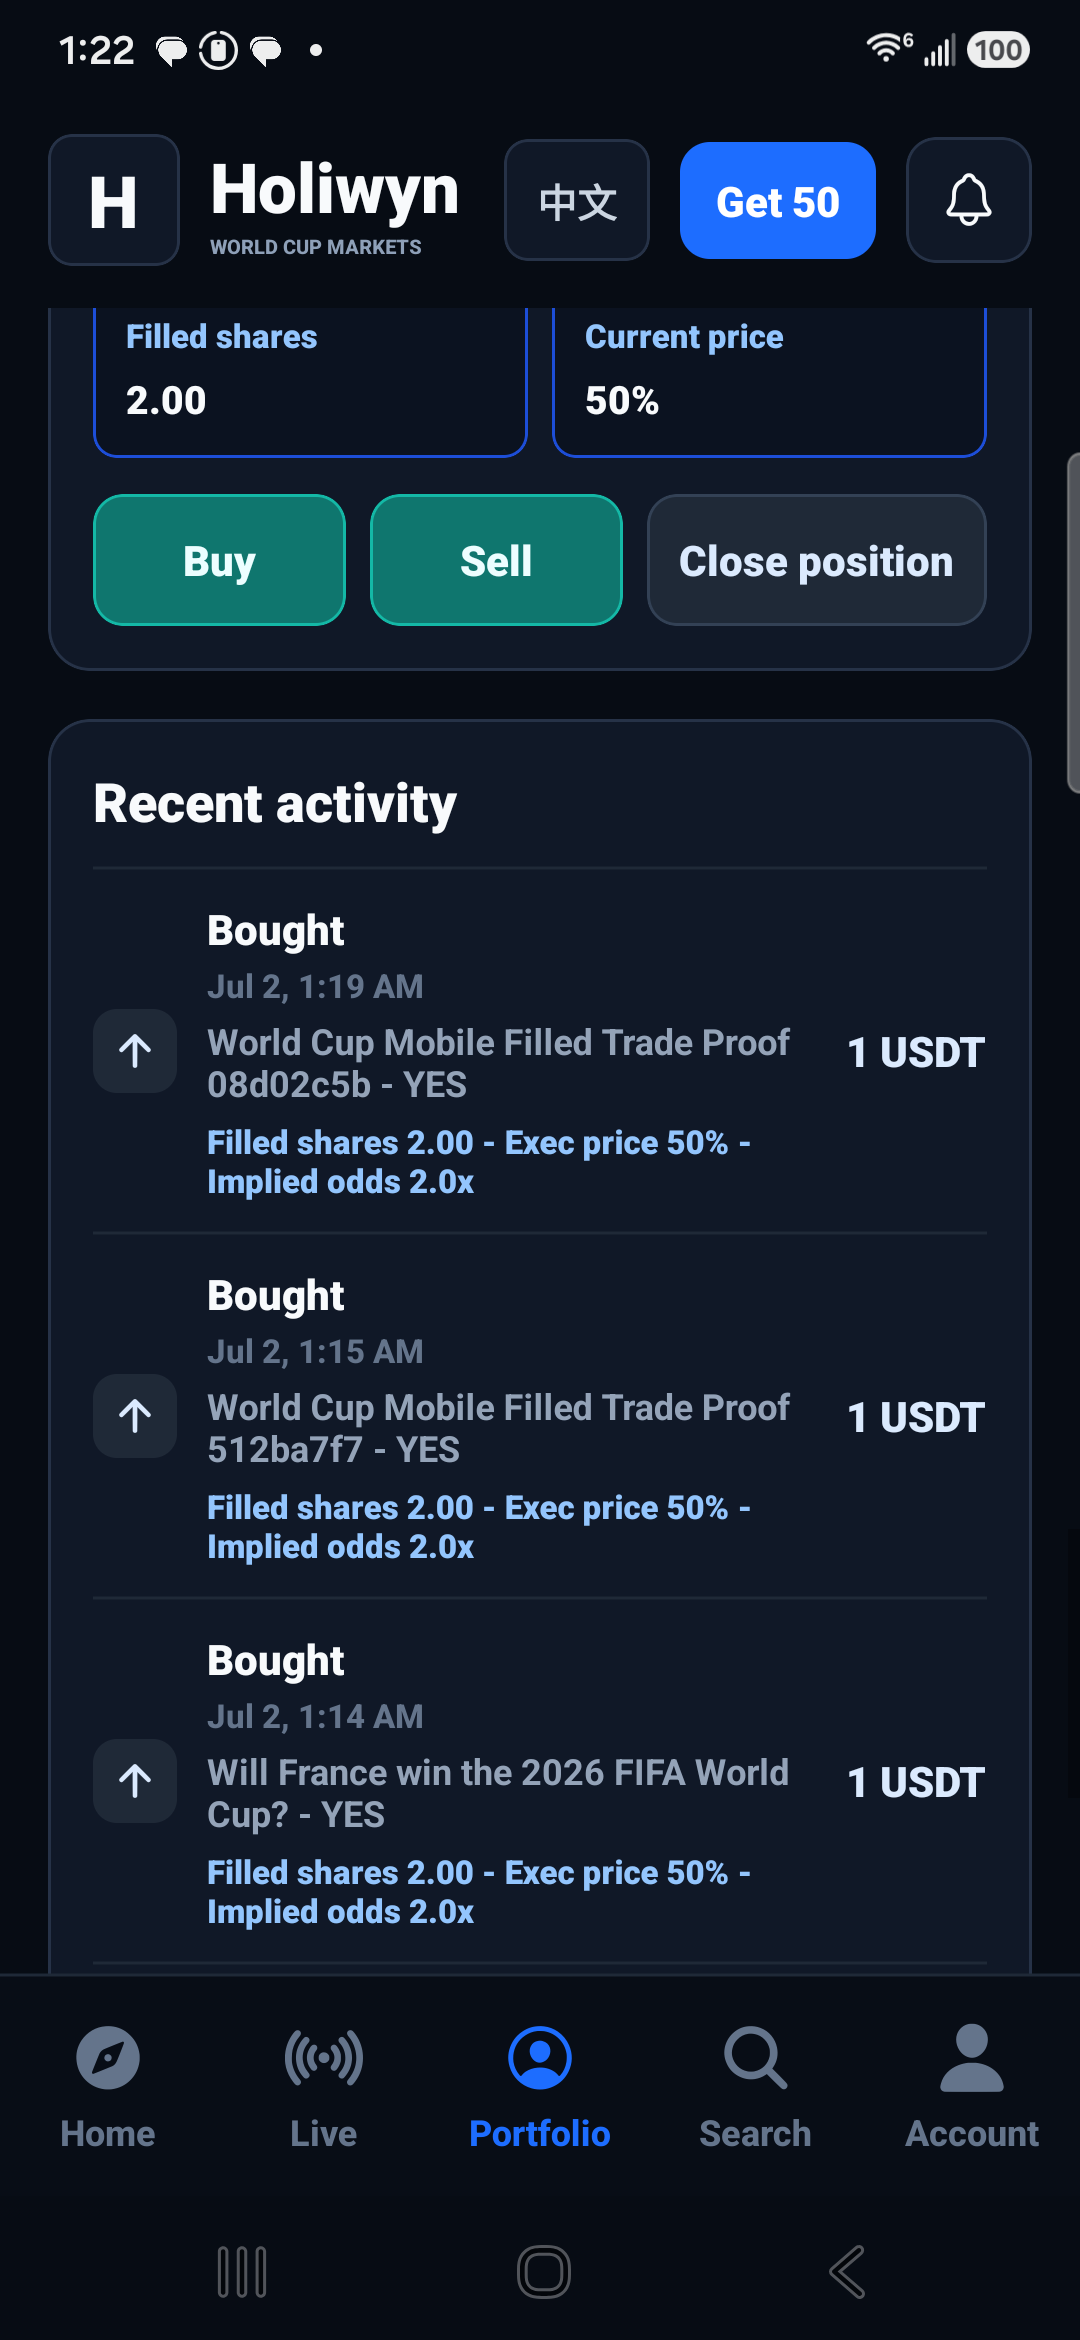
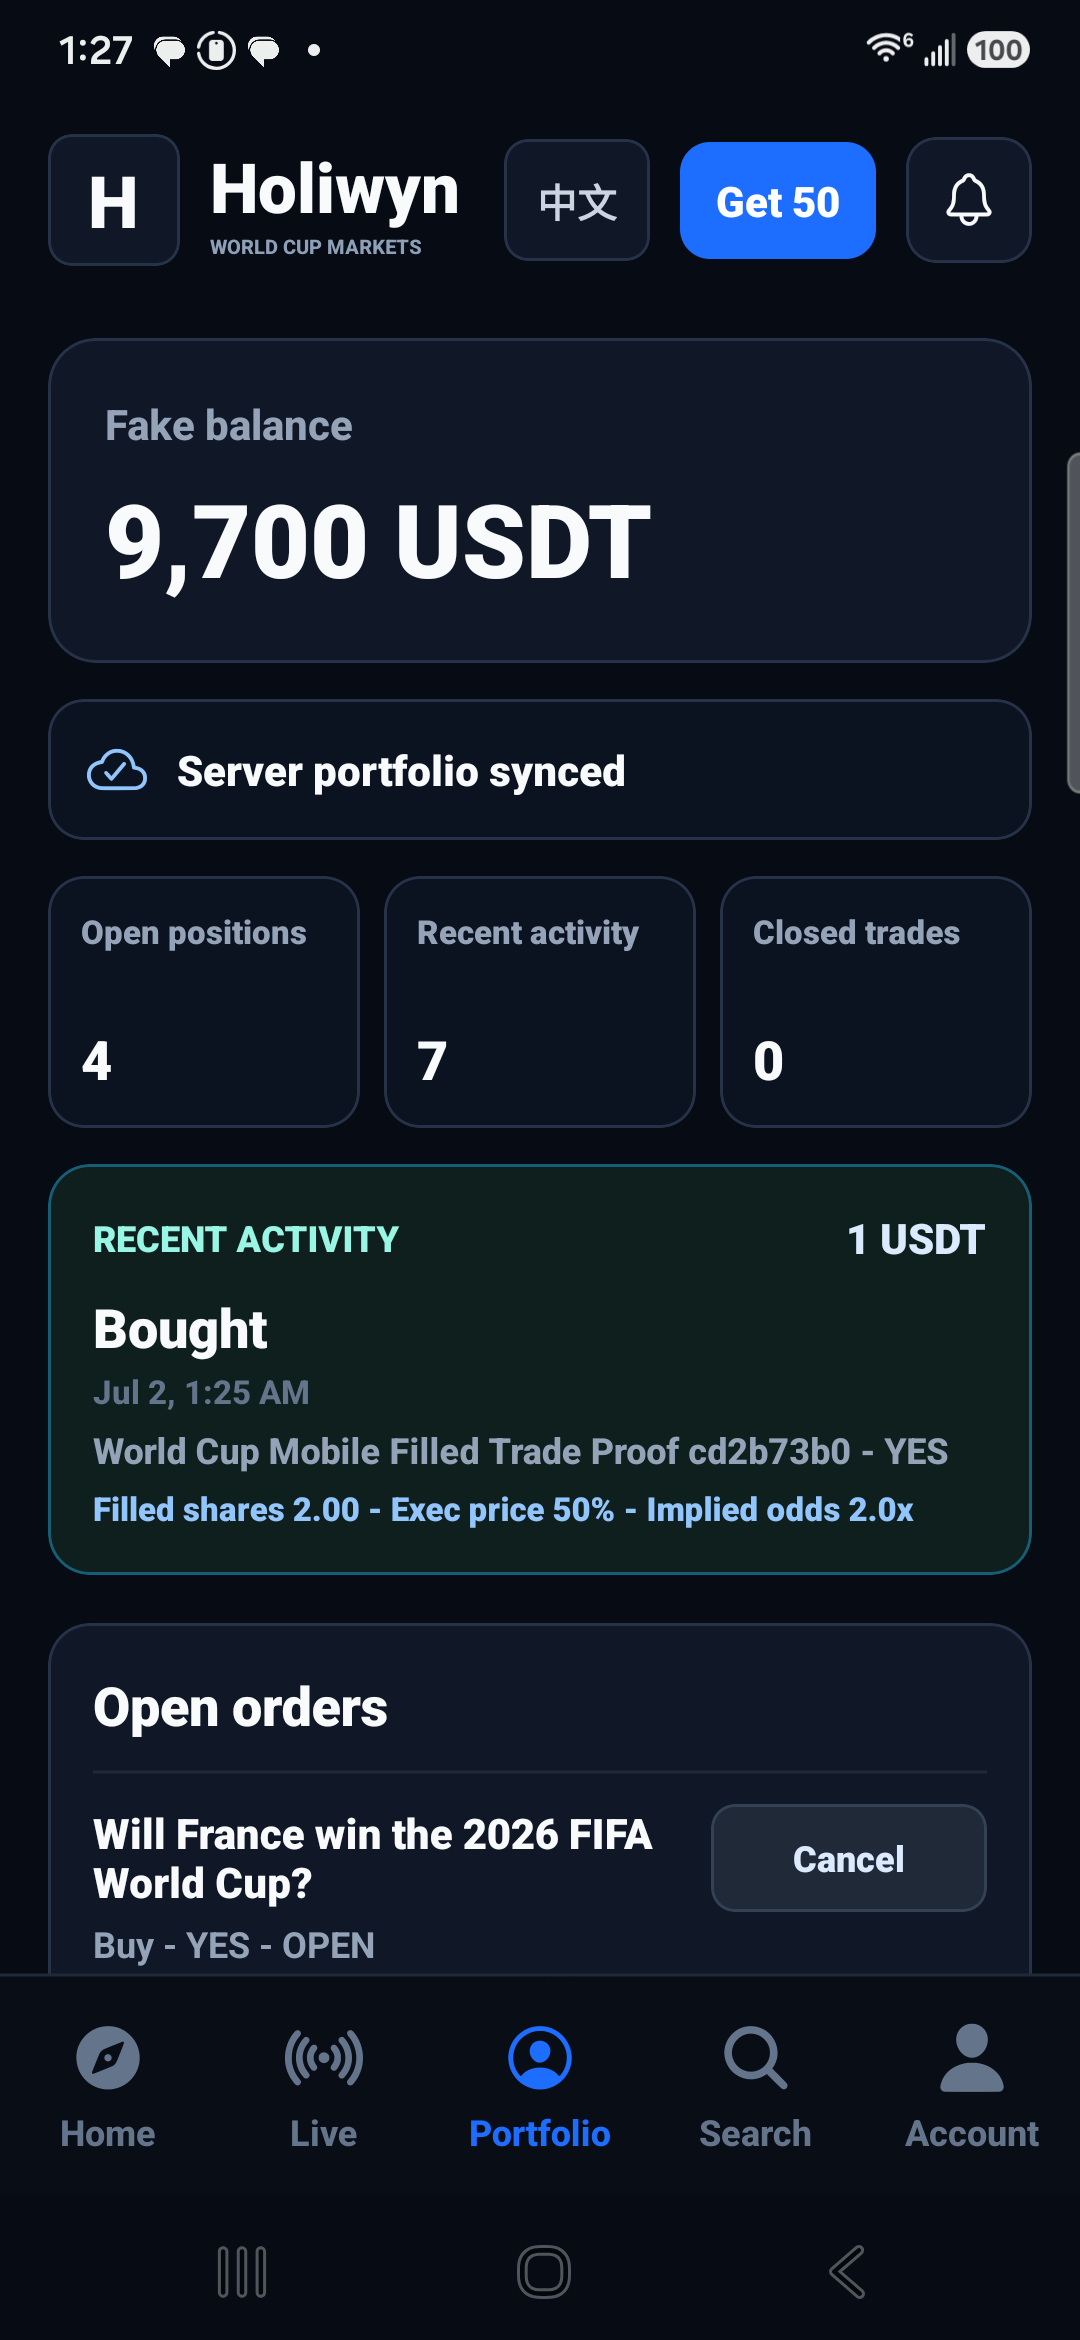
Surface latest portfolio activity

diff --git a/mobile/src/components/Portfolio.tsx b/mobile/src/components/Portfolio.tsx
@@ -117,6 +117,18 @@ const currentValueTotal = (positions: Position[]) =>
 const pnlTotal = (positions: Position[]) =>
   positions.reduce((total, position) => total + estimatedPnl(position), 0);
 
+const activityActionLabel = (activity: PortfolioActivity, t: PortfolioCopy) =>
+  activity.action === "opened" ? t.openedPosition : activity.action === "canceled" ? t.canceledOrder : t.closedPosition;
+
+const activityExecutionText = (activity: PortfolioActivity, t: PortfolioCopy) =>
+  activity.action === "closed"
+    ? `${t.entry} ${typeof activity.probability === "number" ? `${activity.probability}%` : money(activity.entryAmount ?? activity.amount)} - ${t.currentValue} ${money(activity.amount)} - ${t.estimatedPnl} ${
+        activityPnl(activity) >= 0 ? "+" : ""
+      }${money(activityPnl(activity))}`
+    : `${t.filledShares} ${activityShares(activity).toFixed(2)} - ${t.executionPrice} ${activity.probability ?? 0}% - ${
+        t.impliedOdds
+      } ${decimalOdds((activity.probability ?? 0) / 100)}`;
+
 export function Portfolio({
   t,
   balance,
@@ -142,6 +154,7 @@ export function Portfolio({
   cancelOpenOrder: (order: OpenOrder) => void;
 }) {
   const closedActivityCount = activities.filter((activity) => activity.action === "closed").length;
+  const latestActivity = activities[0];
   const syncTitle =
     syncStatus === "syncing"
       ? t.portfolioSyncing
@@ -227,6 +240,30 @@ export function Portfolio({
           <Text style={styles.positionCountValue}>{closedActivityCount}</Text>
         </View>
       </View>
+      {latestActivity && (
+        <View accessibilityLabel="latest-activity-card" testID="latest-activity-card" style={styles.latestActivityCard}>
+          <View style={styles.latestActivityTop}>
+            <Text style={styles.latestActivityLabel}>{t.recentActivity}</Text>
+            <Text style={styles.latestActivityAmount}>{money(latestActivity.amount)}</Text>
+          </View>
+          <Text style={styles.latestActivityAction}>{activityActionLabel(latestActivity, t)}</Text>
+          {latestActivity.timestamp && (
+            <Text accessibilityLabel={`latest-activity-time-${latestActivity.id}`} style={styles.activityTime}>
+              {latestActivity.timestamp}
+            </Text>
+          )}
+          <Text style={styles.latestActivityMeta}>
+            {latestActivity.title} - {latestActivity.outcome}
+          </Text>
+          {(typeof latestActivity.probability === "number" ||
+            (latestActivity.action === "closed" && typeof latestActivity.entryAmount === "number")) &&
+            latestActivity.action !== "canceled" && (
+              <Text accessibilityLabel={`latest-activity-execution-${latestActivity.id}`} style={styles.activityExecution}>
+                {activityExecutionText(latestActivity, t)}
+              </Text>
+            )}
+        </View>
+      )}
       {openOrdersSection}
       {latestOrder && (
         <View accessibilityLabel="latest-order-card" testID="latest-order-card" style={styles.confirmationCard}>
@@ -410,11 +447,7 @@ export function Portfolio({
               </View>
               <View style={styles.activityMain}>
                 <Text style={styles.activityAction}>
-                  {activity.action === "opened"
-                    ? t.openedPosition
-                    : activity.action === "canceled"
-                      ? t.canceledOrder
-                      : t.closedPosition}
+                  {activityActionLabel(activity, t)}
                 </Text>
                 {activity.timestamp && (
                   <Text accessibilityLabel={`activity-time-${activity.id}`} style={styles.activityTime}>
@@ -437,13 +470,7 @@ export function Portfolio({
                 {(typeof activity.probability === "number" || (activity.action === "closed" && typeof activity.entryAmount === "number")) &&
                   activity.action !== "canceled" && (
                   <Text accessibilityLabel={`activity-execution-${activity.id}`} style={styles.activityExecution}>
-                    {activity.action === "closed"
-                      ? `${t.entry} ${typeof activity.probability === "number" ? `${activity.probability}%` : money(activity.entryAmount ?? activity.amount)} - ${t.currentValue} ${money(activity.amount)} - ${t.estimatedPnl} ${
-                          activityPnl(activity) >= 0 ? "+" : ""
-                        }${money(activityPnl(activity))}`
-                      : `${t.filledShares} ${activityShares(activity).toFixed(2)} - ${t.executionPrice} ${activity.probability ?? 0}% - ${
-                          t.impliedOdds
-                        } ${decimalOdds((activity.probability ?? 0) / 100)}`}
+                    {activityExecutionText(activity, t)}
                   </Text>
                 )}
               </View>
@@ -470,6 +497,12 @@ const styles = StyleSheet.create({
   countTile: { flex: 1, minHeight: 84, justifyContent: "space-between", paddingHorizontal: 10, paddingVertical: 10, borderRadius: 12, backgroundColor: "#0b1220", borderWidth: 1, borderColor: "#263247" },
   positionCountLabel: { color: "#94a3b8", fontSize: 11, fontWeight: "900" },
   positionCountValue: { color: "#f8fafc", fontSize: 18, fontWeight: "900" },
+  latestActivityCard: { marginTop: 12, padding: 14, borderRadius: 14, backgroundColor: "#0f1f1d", borderWidth: 1, borderColor: "#155e75" },
+  latestActivityTop: { flexDirection: "row", alignItems: "center", justifyContent: "space-between", gap: 10 },
+  latestActivityLabel: { color: "#99f6e4", fontSize: 12, fontWeight: "900", textTransform: "uppercase" },
+  latestActivityAmount: { color: "#dbeafe", fontWeight: "900" },
+  latestActivityAction: { color: "#f8fafc", fontSize: 18, fontWeight: "900", marginTop: 8 },
+  latestActivityMeta: { color: "#94a3b8", fontSize: 12, fontWeight: "800", marginTop: 4 },
   emptyCard: { alignItems: "center", padding: 28, borderRadius: 16, backgroundColor: "#101827", borderWidth: 1, borderColor: "#263247", marginTop: 16 },
   emptyTitle: { color: "#f8fafc", fontSize: 20, fontWeight: "900", marginTop: 10 },
   emptyText: { color: "#94a3b8", textAlign: "center", marginTop: 6, fontWeight: "700" },

diff --git a/docs/mobile/MOBILE_QA_REPORT.md b/docs/mobile/MOBILE_QA_REPORT.md
@@ -4619,3 +4619,28 @@ Bugs:
 - Fixed the server filled-trade smoke scroll depth and activity labels (`Bought`, `Exec price`) to match the real UI.
 Visual QA:
 - Passed on Samsung S23 through Expo Go.
+
+### Cycle 207
+
+Date: 2026-07-02
+Device: Samsung S23 via Expo Go, local Docker-backed backend, and mobile service unit harness
+Build/run command:
+- `npm.cmd run mobile:filled-trade-proof`
+- `npm.cmd run smoke:samsung:server-filled-trade-history` in `mobile/`
+- `npm.cmd run test:mobile-api`
+- `npm.cmd run typecheck` in `mobile/`
+Result: Passed. Portfolio now shows the latest backend activity near the top after server sync.
+Harness evidence:
+- Samsung Portfolio shows `Server portfolio synced`, open/activity/closed counters, and a `RECENT ACTIVITY` preview card in the first viewport.
+- The preview card verifies `Bought`, the World Cup proof title, `YES`, `1 USDT`, `Filled shares 2.00`, `Exec price 50%`, and `Implied odds 2.0x`.
+- Mobile service tests and mobile typecheck passed.
+Screenshot evidence:
+- `docs/mobile/screenshots/cycle-current-holiwyn-server-filled-trade-history.png`
+- `docs/mobile/harness/cycle-current-holiwyn-server-filled-trade-history.xml`
+Structured findings:
+- The previous proof showed filled history could be reached, but active positions and open orders could bury it.
+- The preview card makes the most recent backend trade visible immediately after sync without removing the full activity feed.
+Bugs:
+- The deeper scroll assertion became unstable as the dev account accumulated positions; the updated proof checks the new top preview as the intended surface.
+Visual QA:
+- Passed on Samsung S23 through Expo Go.

diff --git a/docs/mobile/MOBILE_LOOP_STATE.md b/docs/mobile/MOBILE_LOOP_STATE.md
@@ -9305,6 +9305,30 @@ Notes:
 Commit: de167c2
 Merge: 0f36834
 
+### Cycle 207
+
+Date: 2026-07-02
+Branch: mobile/cycle-207
+Status: Verified; pending local merge.
+Objective: Make the newest backend-filled trade activity visible near the top of Portfolio after server sync.
+Implemented:
+- Added a latest-activity preview card directly under the Portfolio counters.
+- Reused existing activity labels and execution-detail formatting for the preview.
+- Updated the Samsung server filled-trade history smoke to assert the preview card as the primary proof surface.
+Verification:
+- `npm.cmd run mobile:filled-trade-proof` passed and refreshed a filled World Cup proof trade.
+- `npm.cmd run smoke:samsung:server-filled-trade-history` passed on Samsung S23 through Expo Go with backend health `ok`.
+- `npm.cmd run test:mobile-api` passed with 15 files and 64 tests.
+- `npm.cmd run typecheck` passed in `mobile/`.
+Evidence:
+- `docs/mobile/screenshots/cycle-current-holiwyn-server-filled-trade-history.png`.
+- `docs/mobile/harness/cycle-current-holiwyn-server-filled-trade-history.xml`.
+- `docs/mobile/harness/cycle-current-mobile-filled-trade-proof.json`.
+Notes:
+- This cycle responds to the Cycle 206 proof: filled activity was correct, but it could be buried below accumulated positions and open orders on the dev account.
+Commit: PENDING
+Merge: PENDING
+
 ### Heartbeat After Cycle 142
 
 Completed cycles: 140, 141, 142.

diff --git a/docs/mobile/MOBILE_REVIEW_REPORT.md b/docs/mobile/MOBILE_REVIEW_REPORT.md
@@ -3074,3 +3074,17 @@ Findings:
 - Samsung server filled-trade history proof, mobile API/service tests, and mobile typecheck passed.
 Decision: Approve Cycle 206 for local commit/merge after scoped diff review.
 Merge approved: Yes
+
+### Cycle 207
+
+Date: 2026-07-02
+Branch: mobile/cycle-207
+Reviewer: Lead/Reviewer pass
+Scope: Latest backend activity preview.
+Findings:
+- P1: Portfolio now surfaces the newest backend-derived activity directly under the counters, so filled trades are visible without scrolling past accumulated positions and open orders.
+- P1: The preview reuses existing activity economics formatting for filled shares, execution price, implied odds, amount, timestamp, title, and outcome.
+- P1: The Samsung server-history smoke now verifies the top activity card as the intended proof surface.
+- Mobile API/service tests, mobile typecheck, and Samsung server filled-trade history proof passed.
+Decision: Approve Cycle 207 for local commit/merge after scoped diff review.
+Merge approved: Yes

diff --git a/docs/mobile/MOBILE_FEATURE_GAP_TRACKER.md b/docs/mobile/MOBILE_FEATURE_GAP_TRACKER.md
@@ -237,3 +237,4 @@ Status:
 | GAP-215 | Portfolio history | Pre-resolution filled-trade activity | P0 | Yes | Verified | Cycle 204 extends `/api/portfolio/history` with `recentTrades` and maps backend filled BUY/SELL trades into mobile Recent activity before market resolution. |
 | GAP-216 | Harness | Mobile filled-trade proof fixture | P0 | No | Verified | Cycle 205 adds a repeatable backend proof harness that creates a dev World Cup market, matches a real fake-token BUY against prepared liquidity for `holiwyn-mobile-dev`, and writes non-secret filled-trade evidence for mobile history QA. |
 | GAP-217 | Harness | Samsung server filled-trade history proof | P0 | Yes | Verified | Cycle 206 adds a Samsung server-mode smoke that syncs backend Portfolio history and verifies the filled World Cup proof trade appears visually in Recent activity. |
+| GAP-218 | Portfolio | Latest backend activity preview | P1 | Yes | Verified | Cycle 207 adds a top Portfolio latest-activity card so filled backend trades are visible immediately after sync, with Samsung proof covering the preview card. |